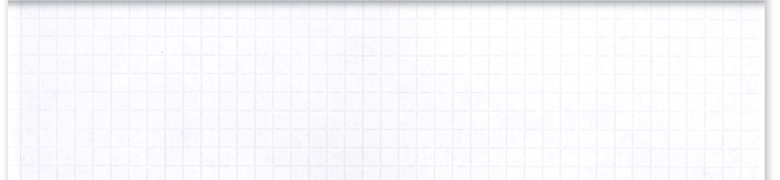
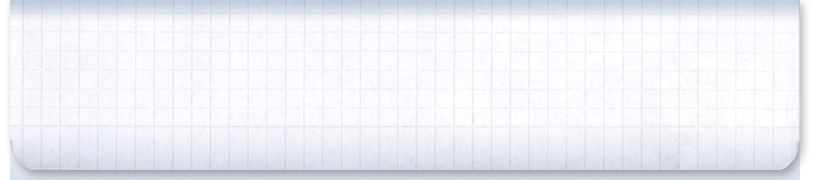
Kuvia päivitetty

Changed region(s): [[0.0, 0.0, 0.9846, 1.0]]

diff --git a/wp-content/themes/mensafin/style.css b/wp-content/themes/mensafin/style.css
@@ -423,7 +423,7 @@ article {
 	float: left;
 	margin-right: auto;
 	margin-left: auto;
-	background-image: url(images/alyblogi.png);
+	background-image: url(images/AlyBlogiBG.jpg);
 	background-repeat: no-repeat;
 }
 

diff --git a/wp-content/themes/mensafin/template-parts/link-to-gifted-children.php b/wp-content/themes/mensafin/template-parts/link-to-gifted-children.php
@@ -7,6 +7,6 @@
 ?>
 
 <a href="http://lahjakkaatlapset.fi">
-<img src="<?php bloginfo('template_directory') ?>/images/lahjakkaat-lapset-banneri.jpg"
+<img src="<?php bloginfo('template_directory') ?>/images/LahjLapset2.jpg"
      alt="linkki lahjakkaat lapset -sivustolle"/>
 </a>
